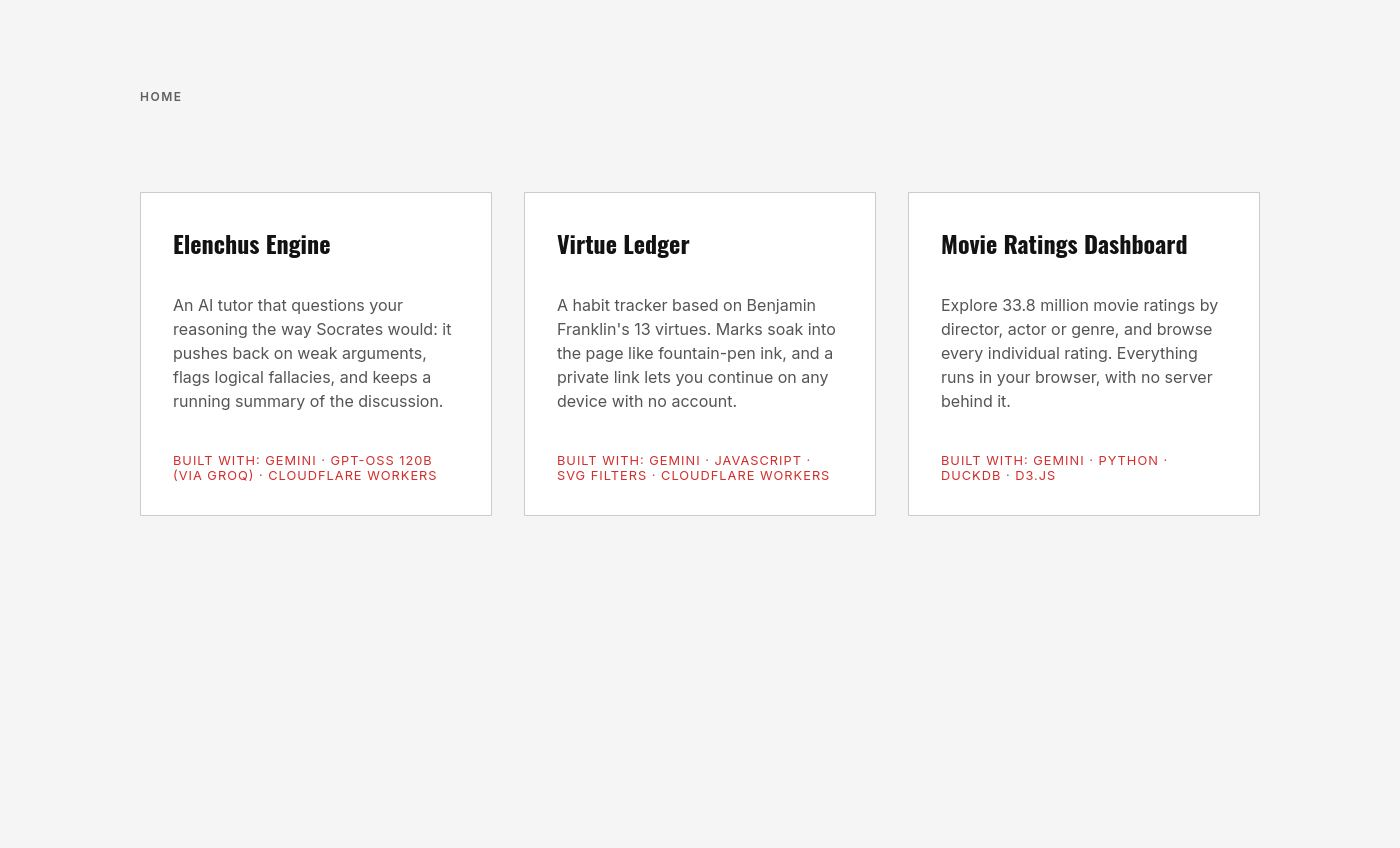
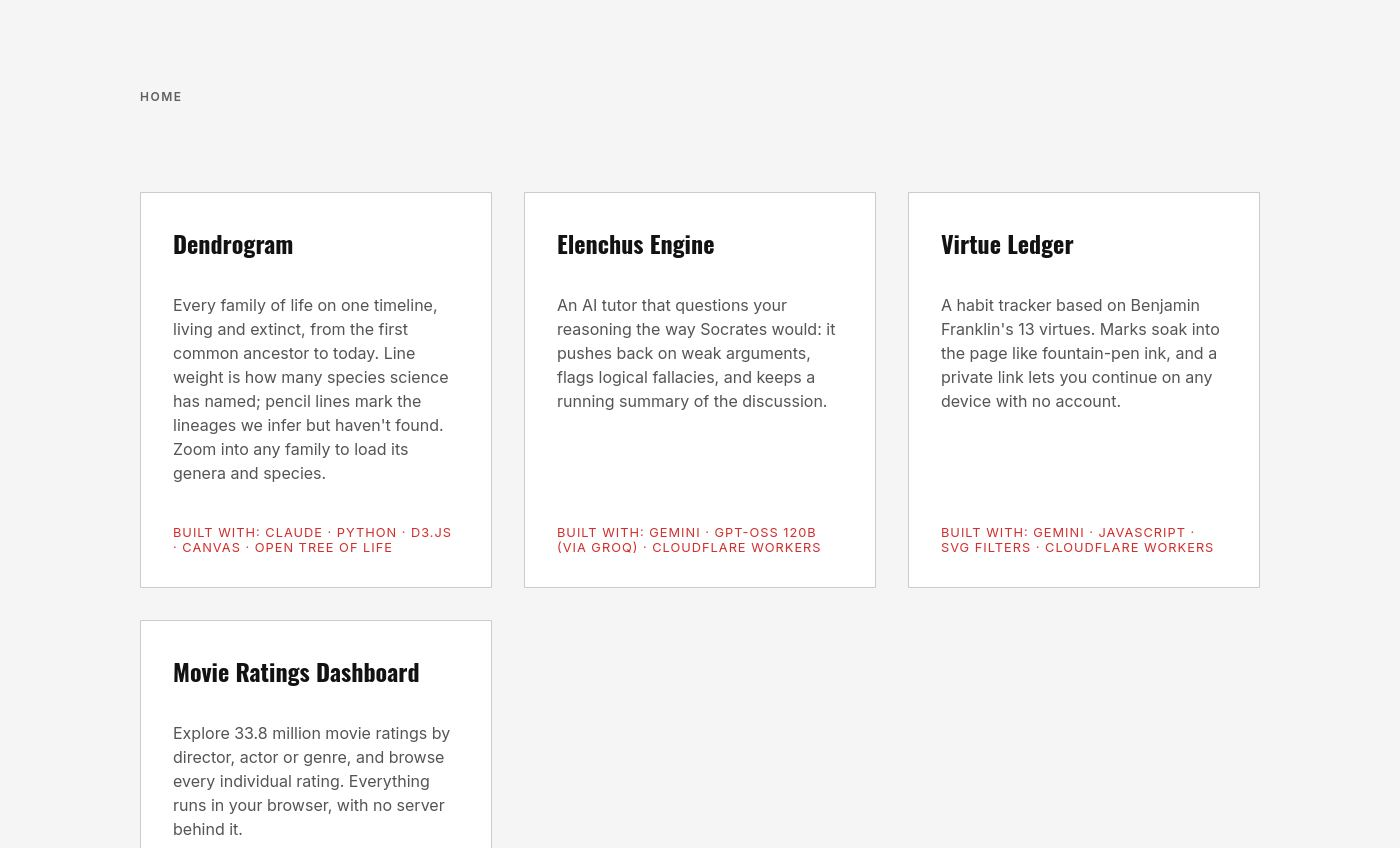
Dendrogram: a card on the Portfolio and a place in the garden
The Portfolio lists the Dendrogram, and the garden gives it a card of its
own, linked from the Portfolio. Opened from the garden, the chart now draws
in its inks rather than in black.

diff --git a/portfolio.html b/portfolio.html
@@ -4,11 +4,11 @@
     <meta charset="UTF-8">
     <meta name="viewport" content="width=device-width, initial-scale=1.0">
     <title>Portfolio | Mac Wall</title>
-    <meta name="description" content="Data and AI projects by Mac Wall: an AI tutor that questions your reasoning, a Franklin-style habit tracker, and a movie ratings dashboard that runs in your browser.">
+    <meta name="description" content="Data and AI projects by Mac Wall: the tree of life drawn along deep time, an AI tutor that questions your reasoning, a Franklin-style habit tracker, and a movie ratings dashboard that runs in your browser.">
     <link rel="icon" href="/favicon.svg" type="image/svg+xml">
     <meta property="og:type" content="website">
     <meta property="og:title" content="Portfolio | Mac Wall">
-    <meta property="og:description" content="Data and AI projects by Mac Wall: an AI tutor that questions your reasoning, a Franklin-style habit tracker, and a movie ratings dashboard that runs in your browser.">
+    <meta property="og:description" content="Data and AI projects by Mac Wall: the tree of life drawn along deep time, an AI tutor that questions your reasoning, a Franklin-style habit tracker, and a movie ratings dashboard that runs in your browser.">
     <meta property="og:url" content="https://mac-wall.com/portfolio.html">
     <meta property="og:image" content="https://mac-wall.com/og-image.png">
     <meta name="twitter:card" content="summary_large_image">
@@ -123,6 +123,12 @@
 
     <div class="project-grid">
         
+
+        <a href="/dendrogram/" class="project-card">
+            <h2>Dendrogram</h2>
+            <p>Every family of life on one timeline, living and extinct, from the first common ancestor to today. Line weight is how many species science has named; pencil lines mark the lineages we infer but haven't found. Zoom into any family to load its genera and species.</p>
+            <div class="tags">Built with: Claude · Python · D3.js · Canvas · Open Tree of Life</div>
+        </a>
 
         <a href="https://elenchus.mac-wall.com/elenchus/" class="project-card">
             <h2>Elenchus Engine</h2>

diff --git a/theme.js b/theme.js
@@ -31,7 +31,7 @@
     // tab (FAILED_KEY) and sends it to the page on its own; the next visit tries again.
     const MOTION_KEY = 'site-animations';
     const FAILED_KEY = 'garden-failed';
-    const GARDEN_PAGE = /^\/(portfolio\.html|movie-reviews\.html|ledger\/|elenchus\/|notes\/.*)?$/;
+    const GARDEN_PAGE = /^\/(portfolio\.html|movie-reviews\.html|ledger\/|elenchus\/|dendrogram\/|notes\/.*)?$/;
     const reduceMotion = window.matchMedia && window.matchMedia('(prefers-reduced-motion: reduce)').matches;
     const motionSaved = read(MOTION_KEY, 'on|off');
     const motionOn = () => (read(MOTION_KEY, 'on|off') || (reduceMotion ? 'off' : 'on')) === 'on';

diff --git a/dendrogram/app.js b/dendrogram/app.js
@@ -404,6 +404,10 @@
     // ---------- size and zoom ----------
 
     function resize() {
+        // Opened out of sight (the garden loads a page in a hidden frame), Firefox computes
+        // no styles, so the inks read empty and everything draws black: read them again
+        // once the page is shown
+        if (!colors.bg) { readColors(); buildLegend(); }
         const r = stage.getBoundingClientRect();
         if (r.width === W && r.height === H) return;   // (re-applying the zoom would stop a zoom in flight)
         const narrow = r.width < 700;

diff --git a/dendrogram/index.html b/dendrogram/index.html
@@ -156,6 +156,6 @@
     </article>
 
     <script src="/garden/vendor/d3.v7.min.js"></script>
-    <script src="app.js?v=70"></script>
+    <script src="app.js?v=71"></script>
 </body>
 </html>
